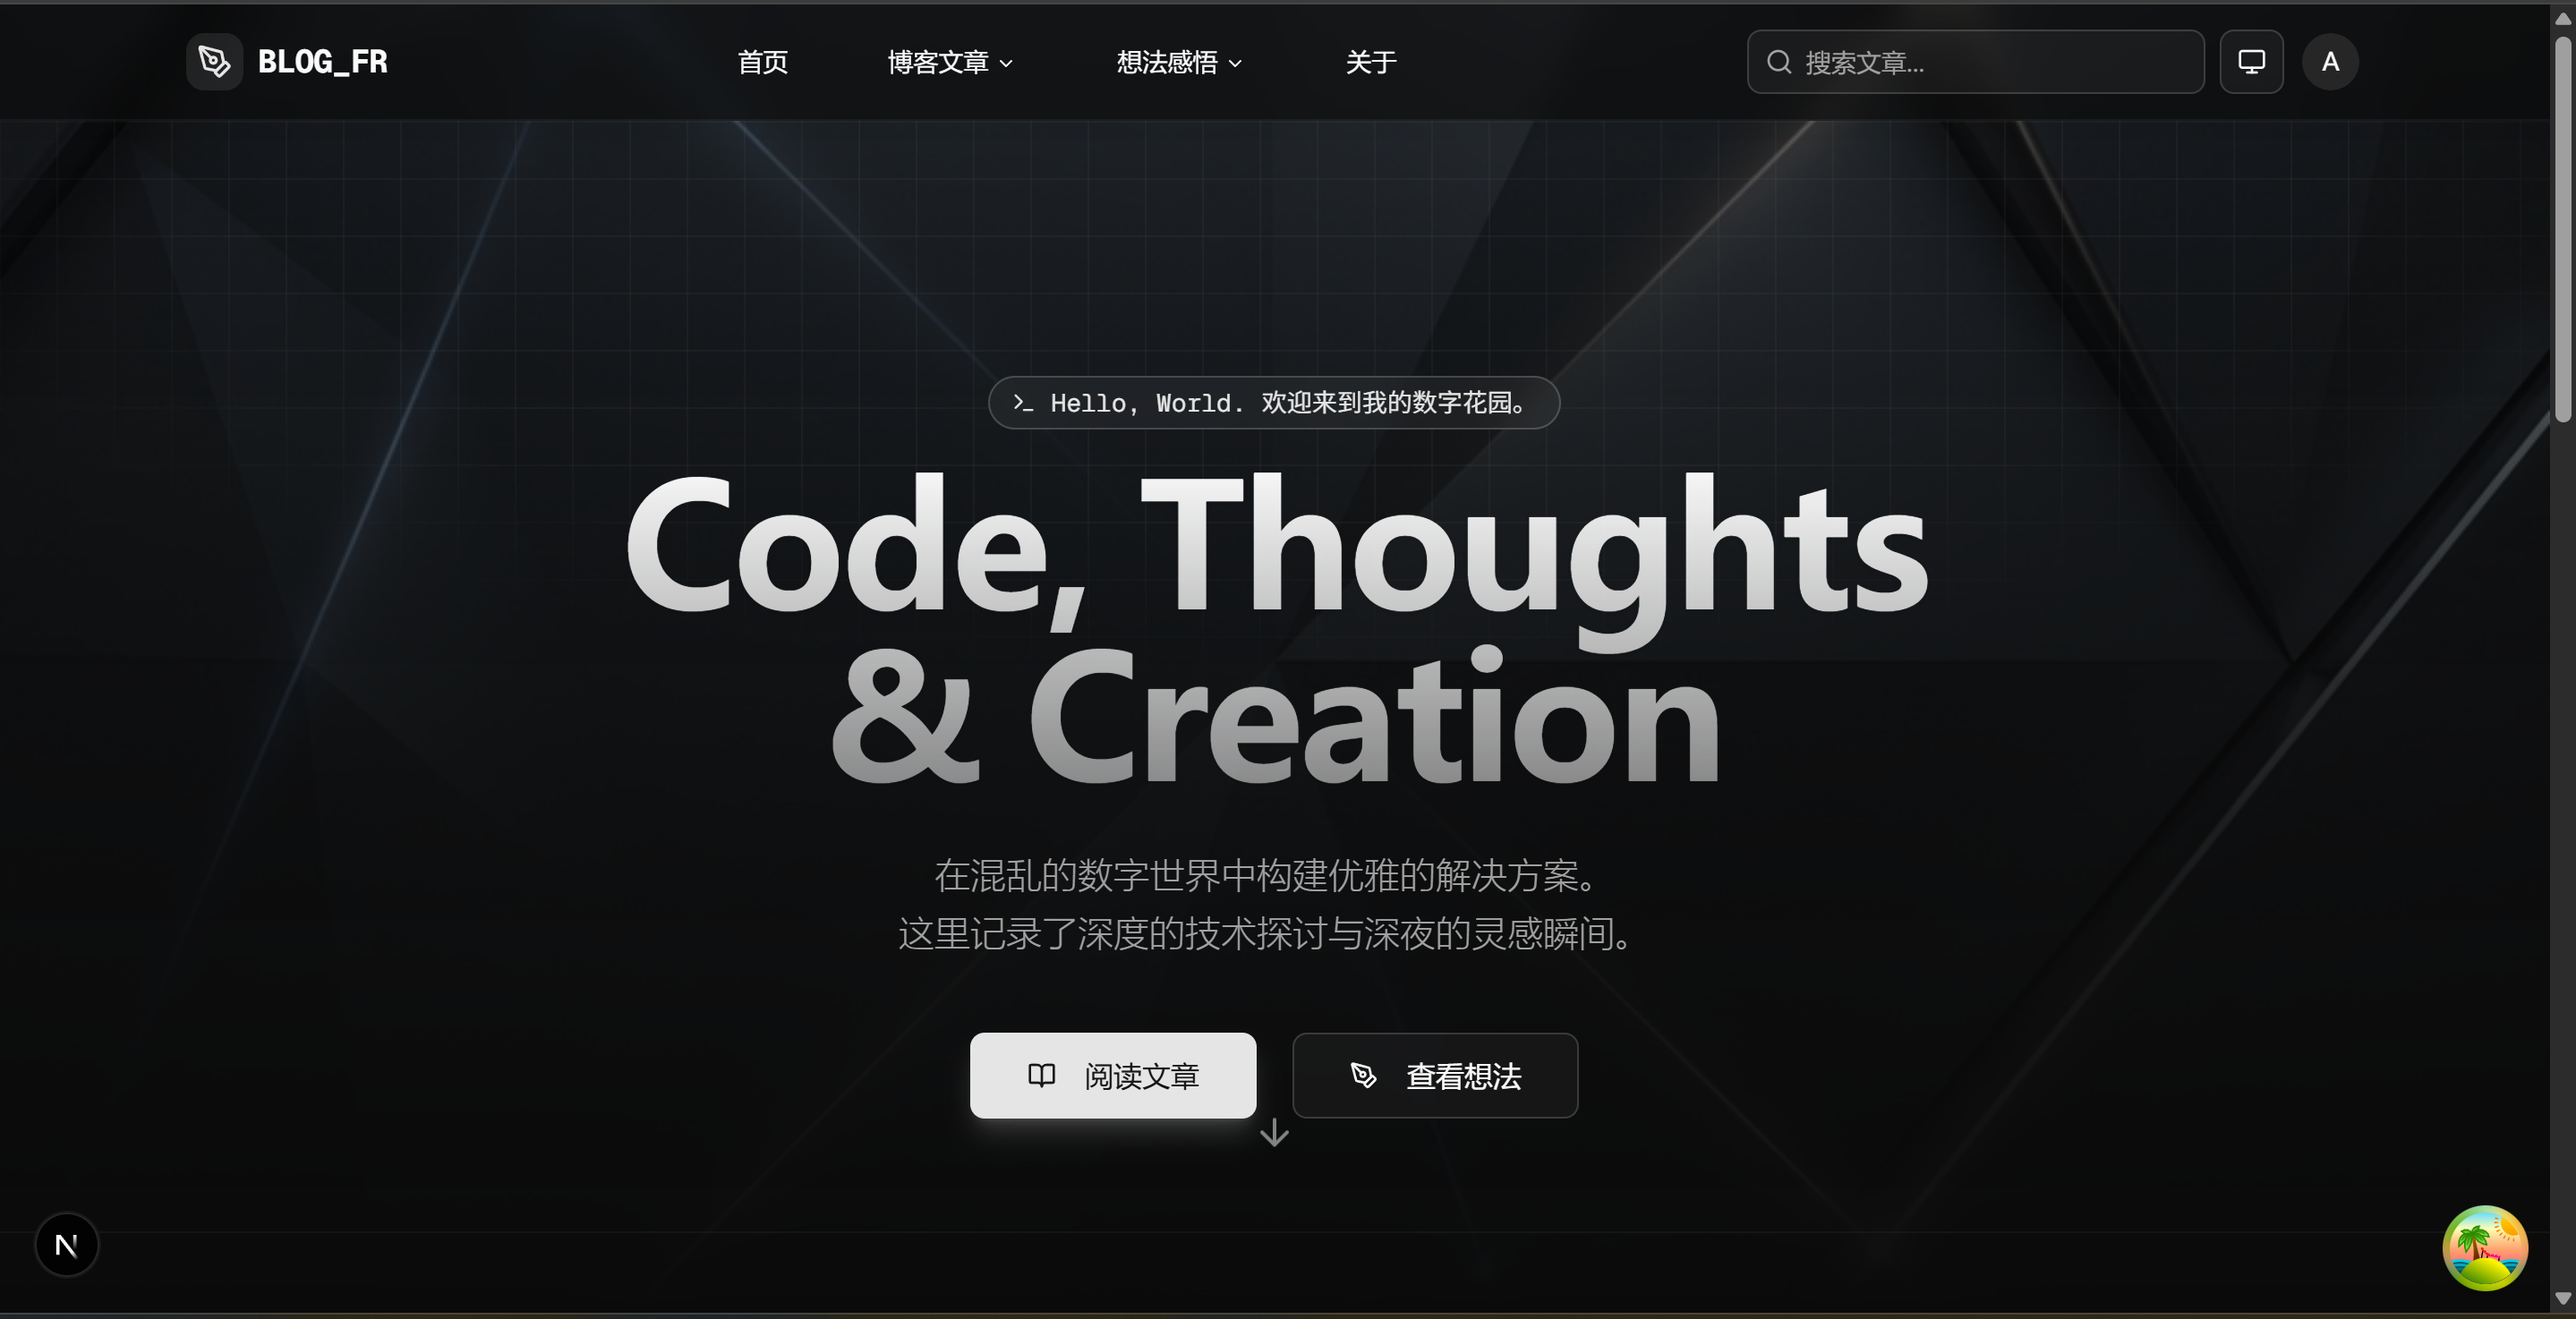
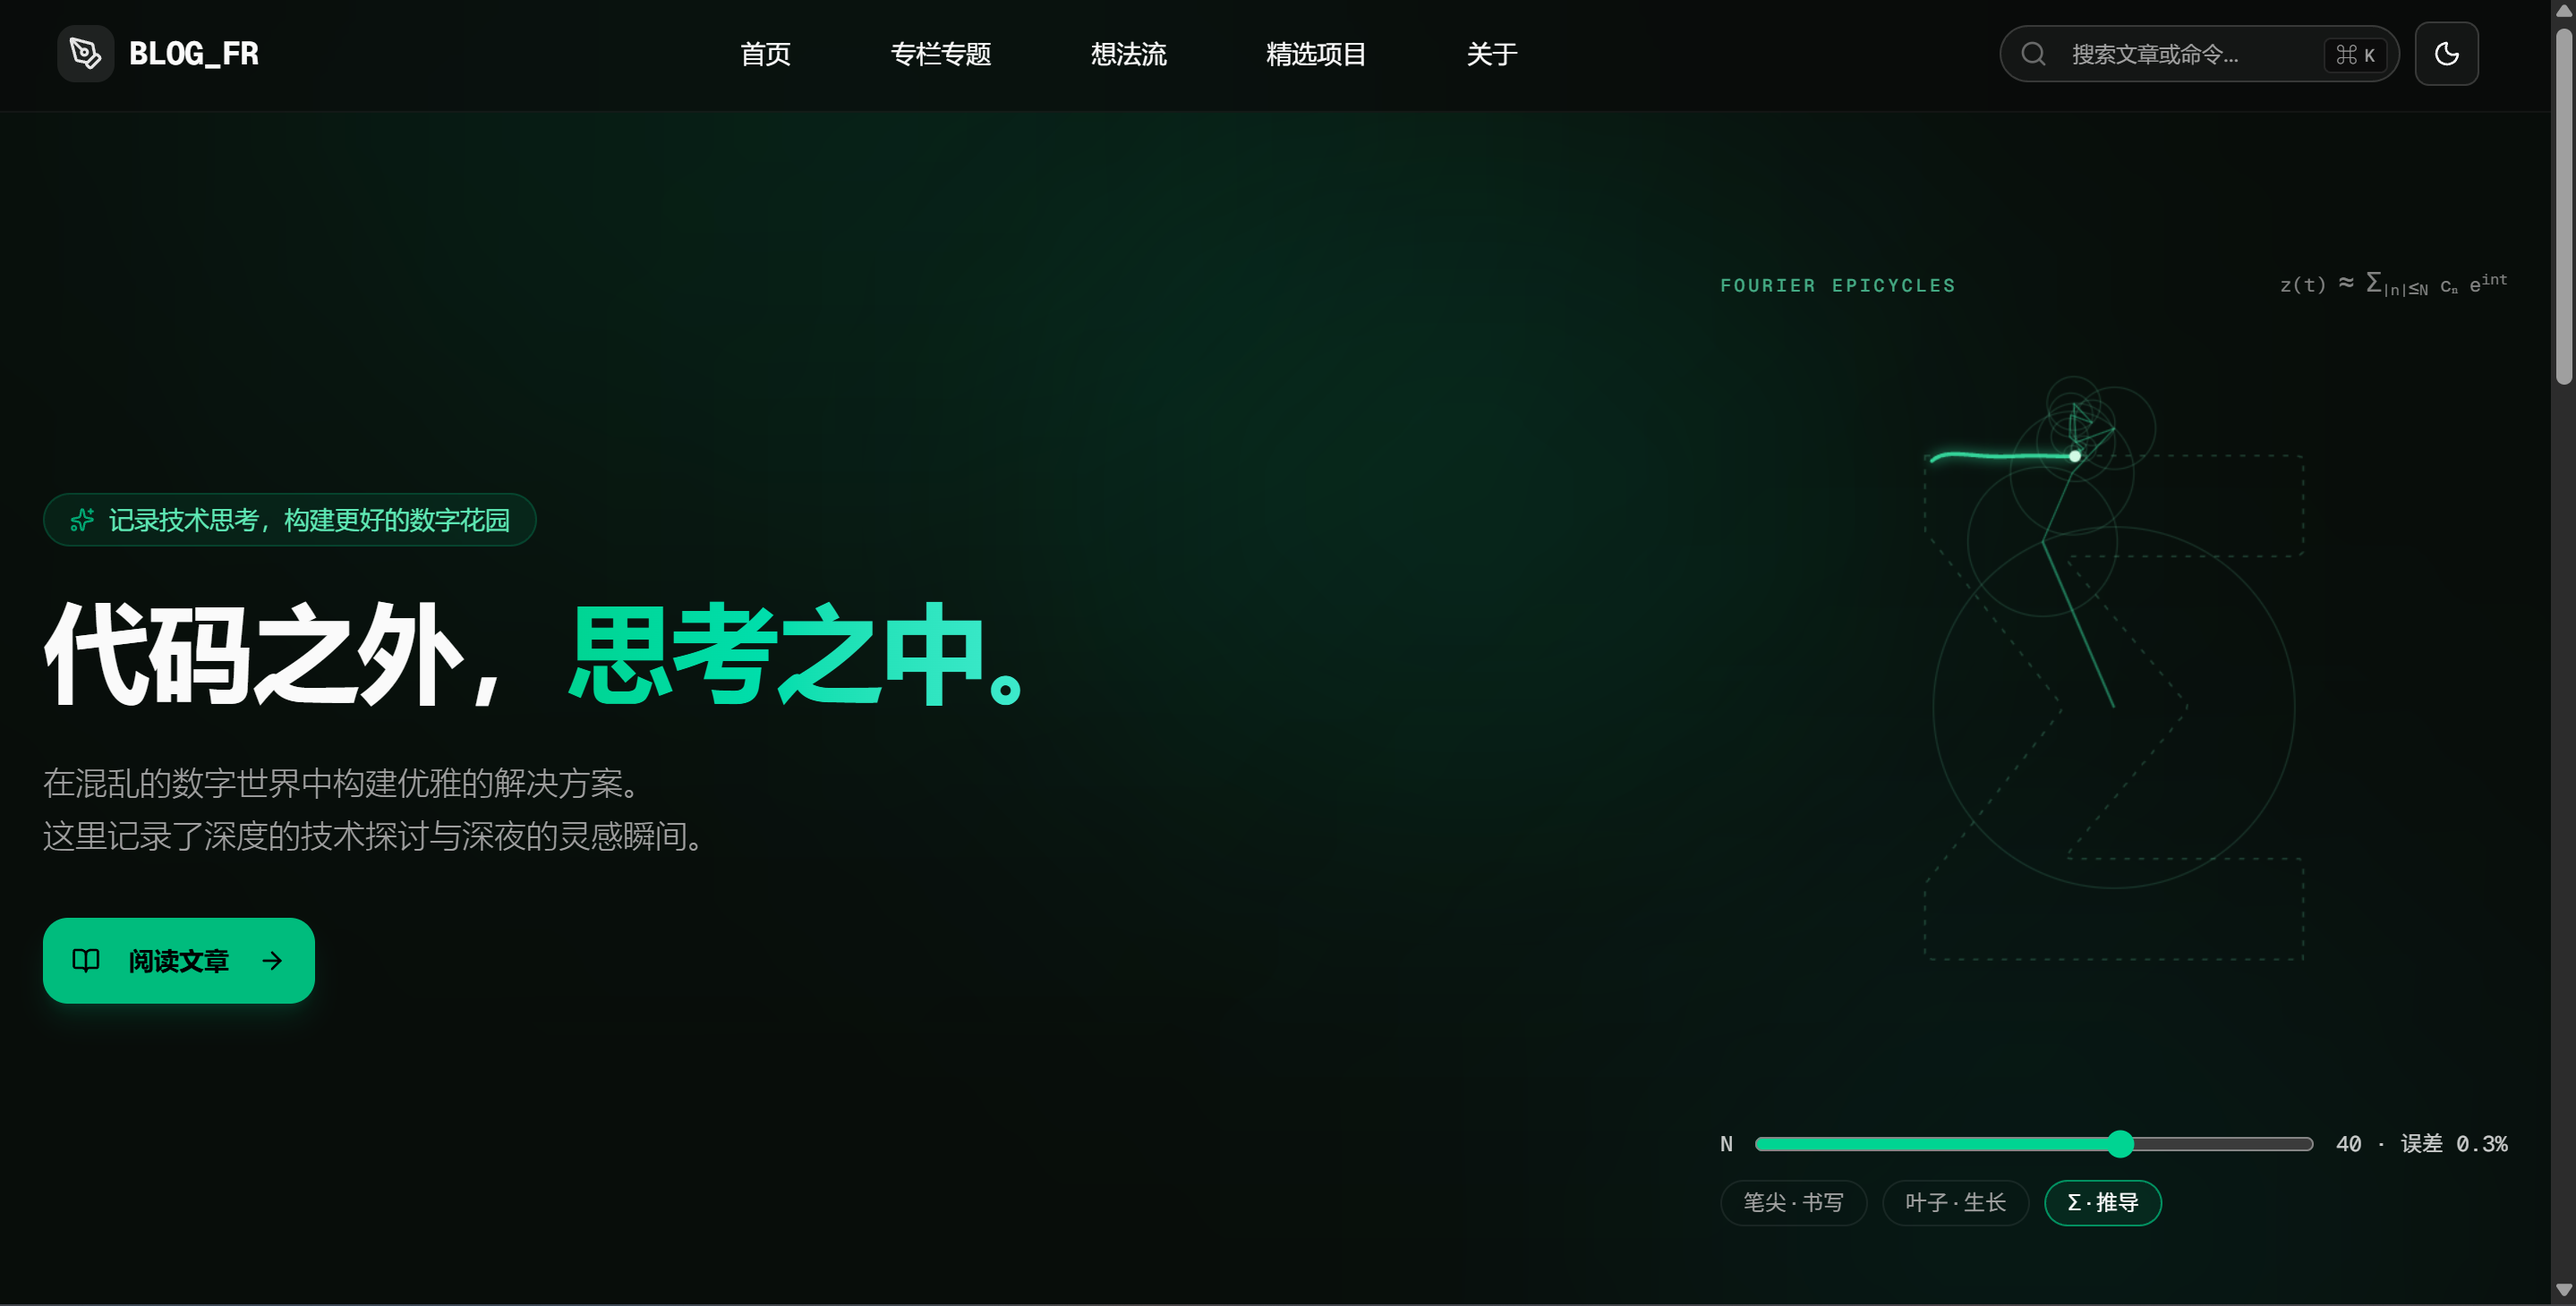
docs: 更新 README 与首页主题截图
- 修正 GitHub Secrets、生产部署方式、SDK 生成命令、渲染方式与 API 路径
- 补充访问分析、链路追踪、llms.txt、Caddy 与 CI/CD 发布流程
- 替换为新版首页的浅色/深色截图

diff --git a/README.md b/README.md
@@ -26,25 +26,28 @@
   </tr>
 </table>
 
-> 💡 基于 `next-themes` 实现，支持系统主题自动跟随，用户偏好自动保存。[查看更多功能展示 →](./SHOWCASE.md)
+> 💡 主题状态由 `next-themes` 管理，支持跟随系统与偏好保存；切换时使用 View Transitions API 做页面级水波纹过渡，不支持该 API 或开启“减少动态效果”时直接切换。首页右侧为可交互的傅里叶本轮（Fourier Epicycles）手稿。[查看更多功能展示 →](./SHOWCASE.md)
 
 ---
 
 ## ✨ 核心特性
 
 - 🎨 **现代设计**: Tailwind CSS 4 + shadcn/ui，深色/浅色主题无缝切换，响应式布局
-- 📝 **增强型 MDX**: Mermaid 图表、代码高亮 (highlight.js)、数学公式 (KaTeX)、交互式组件
+- 📝 **增强型 MDX**: Mermaid 图表、代码高亮 (@tanstack/highlight)、数学公式 (KaTeX)、交互式组件
 - ⚡ **混合渲染架构**:
-  - **SSR**: 博客文章页面，最佳 SEO 和首屏加载
+  - **ISR**: 公开页面静态生成 + 定时重验证（首页 60s、文章页 300s），内容同步后通过 revalidate webhook 主动刷新
   - **CSR**: 管理后台，流畅的 SPA 体验
   - **后端**: FastAPI + SQLModel，异步高性能
+- 🗂 **内容组织**: 文章 (articles) 与想法 (ideas) 两种内容类型，各自下设专栏；专栏页提供地形图式导航
 - 🔗 **OpenAPI 驱动**: hey-api 自动生成类型安全的前端 SDK
 - 🖼 **媒体管理**: 多规格缩略图自动生成，SVG 图标支持
-- 🔍 **SEO 友好**: 语义化 HTML、动态元数据、OpenGraph 标签
-- 🐳 **容器化部署**: Docker Compose 一键启动开发/生产环境
-- 🧪 **质量保证**: Pytest 测试框架 + 代码覆盖率
-- 🔄 **GitOps 同步**: 依赖注入容器模式，支持增量/全量同步
-- 🛡 **统一错误处理**: 标准化错误响应格式 + 全链路追踪
+- 🔍 **SEO 与可发现性**: 动态元数据、OpenGraph、sitemap、robots、RSS；为 AI 爬虫提供 `llms.txt` / `llms-full.txt` 与每篇文章的纯 Markdown 版本
+- 📊 **访问分析**: 浏览量与 PV 统计、Core Web Vitals 真实用户监控、基于 ip2region 的离线 IP 归属地查询
+- 🔭 **可观测性**: OpenTelemetry 打通 Next.js → FastAPI → SQL 全链路追踪，可选接入 Jaeger
+- 🐳 **容器化部署**: Docker Compose + Caddy（自动 HTTPS），CI 检查通过后按 commit SHA 构建镜像并发布
+- 🧪 **质量保证**: Pytest + 覆盖率、Vitest、类型检查与 Lint，均在 CI 中作为发布门禁
+- 🔄 **GitOps 同步**: 依赖注入容器模式，支持增量/全量同步，后台提交与同步共用仓库锁
+- 🛡 **统一错误处理**: 标准化错误响应格式，所有错误响应携带 `request_id`
 
 > 📸 **查看效果**: 想要直观了解这些特性？访问 [功能展示文档](./SHOWCASE.md) 查看完整的界面截图和功能演示！
 
@@ -68,8 +71,14 @@
 - **样式**: [Tailwind CSS 4](https://tailwindcss.com/), [Shadcn UI](https://ui.shadcn.com/)
 - **状态管理**: [TanStack Query v5](https://tanstack.com/query)
 - **数据获取**: [hey-api SDK](https://www.heypi.com/) (基于 OpenAPI 自动生成)
-- **主题系统**: [next-themes](https://github.com/pacocoursey/next-themes) - 支持深色/浅色模式，自动跟随系统主题
-- **内容渲染**: MDX + Mermaid + KaTeX + highlight.js
+- **主题系统**: [next-themes](https://github.com/pacocoursey/next-themes) + View Transitions API
+- **内容渲染**: MDX + Mermaid + KaTeX + @tanstack/highlight
+
+### 基础设施 (Infrastructure)
+
+- **反向代理**: [Caddy](https://caddyserver.com/)（自动申请 HTTPS 证书）
+- **可观测性**: [OpenTelemetry](https://opentelemetry.io/) + [Jaeger](https://www.jaegertracing.io/)
+- **CI/CD**: GitHub Actions + Docker Buildx（GHA 缓存）+ 阿里云 ACR 镜像仓库
 
 ---
 
@@ -99,15 +108,15 @@ cp frontend/.env.example frontend/.env
 # 开发环境（支持热重载）
 docker compose -f docker-compose.dev.yml up
 
-# 生产环境
-docker compose up -d
 ```
 
 访问：
 
-- 前端: `http://localhost:3000` (开发) 或 `http://localhost:80` (生产)
+- 前端: `http://localhost:3000`
 - API 文档: `http://localhost:8000/scalar`
 - 后端健康检查: `http://localhost:8000/`
+
+> 生产环境的 `docker-compose.yml` 引用 CI 构建好的镜像，必须指定 `IMAGE_TAG`，不适合直接在本地启动。本地模拟生产请使用 `./scripts/test-prod-local.sh`（读取 `.env.prod.local` 与 `docker-compose.prod.local.yml`）。
 
 ---
 
@@ -120,7 +129,9 @@ cd frontend
 pnpm install
 pnpm dev        # 启动开发服务器 (http://localhost:3000)
 pnpm build      # 构建生产版本
-./scripts/generate-api.sh  # 从 OpenAPI schema 生成类型安全的 SDK
+pnpm test       # 运行测试
+pnpm type-check # 类型检查
+pnpm lint       # 代码检查
 ```
 
 ### 后端开发
@@ -141,6 +152,10 @@ uv run pytest      # 运行测试
 | `./scripts/generate-api.sh`   | **全自动生成 API SDK** | 后端接口变更后，一键更新前端 TypeScript 类型定义 |
 | `./scripts/db-migrate.sh`     | 数据库迁移辅助         | 创建新表或修改模型后使用                         |
 | `./scripts/docker-rebuild.sh` | 重建所有 Docker 容器   | 修改了依赖或 Dockerfile 后使用                   |
+| `./scripts/docker-rebuild-frontend.sh` | 仅重建前端容器 | 前端 `package.json` 变更后使用 |
+| `./scripts/sync-posts.sh`     | 同步 `content/` 文章   | 本地将 Git 内容目录同步到数据库                  |
+| `./scripts/test-prod-local.sh` | 本地模拟生产部署      | 发布前在本机验证生产配置                         |
+| `./scripts/deploy-release.sh` | 服务器端发布脚本       | 由 CI 调用：拉取镜像 → 迁移 → 启动 → 健康检查   |
 
 ### API SDK 生成
 
@@ -148,7 +163,7 @@ uv run pytest      # 运行测试
 
 1. 后端自动生成 OpenAPI schema: `http://localhost:8000/openapi.json`
 2. 前端使用 hey-api/openapi-ts 自动生成 TypeScript SDK
-3. 修改后端 API 后运行 `npm run api:generate` 更新前端类型
+3. 修改后端 API 后在根目录运行 `./scripts/generate-api.sh`（或在 `frontend/` 下执行 `pnpm api:generate`）更新前端类型
 
 ---
 
@@ -160,8 +175,10 @@ blog_fr/
 │   ├── app/
 │   │   ├── core/                # 核心配置和工具
 │   │   ├── users/               # 用户认证和授权
-│   │   ├── posts/               # 文章管理
+│   │   ├── posts/               # 文章、专栏、标签
 │   │   ├── media/               # 媒体文件管理
+│   │   ├── git_ops/             # GitOps 内容同步
+│   │   ├── analytics/           # 访问分析与 Web Vitals
 │   │   └── middleware/          # 自定义中间件
 │   ├── tests/                   # Pytest 测试
 │   ├── alembic/                 # 数据库迁移
@@ -174,9 +191,13 @@ blog_fr/
 │   │   └── config/              # 配置文件
 │   ├── public/                  # 静态资源
 │   └── package.json             # Node.js 项目配置
+├── content/                     # Git 管理的文章内容（articles/、ideas/）
+├── caddy/                       # Caddy 反向代理镜像与配置
 ├── scripts/                     # 自动化脚本
+├── .github/workflows/           # CI 与发布流水线
 ├── docker-compose.yml           # 生产环境配置
 ├── docker-compose.dev.yml       # 开发环境配置
+├── docker-compose.observability.yml  # 可选：Jaeger 链路追踪
 ├── ARCHITECTURE.md              # 架构详细文档
 └── README.md                    # 本文件
 ```
@@ -185,7 +206,7 @@ blog_fr/
 
 - **混合渲染**: Next.js App Router 支持 SSR 和 CSR，根据页面特性自动选择最佳渲染策略
 - **类型安全**: OpenAPI schema 自动生成 TypeScript SDK，确保前后端接口类型一致
-- **模块化设计**: 后端按功能模块划分（users、posts、media、git_ops），前端按组件和功能组织
+- **模块化设计**: 后端按功能模块划分（users、posts、media、git_ops、analytics），前端按组件和功能组织
 - **开发体验**: 支持 Hot Reload、TypeScript 检查、自动格式化
 
 ### GitOps 内容同步模块
@@ -242,15 +263,24 @@ GitOpsContainer (容器)
 ```bash
 cd backend
 # 运行所有测试
-pytest
+uv run pytest
 
 # 运行测试并生成覆盖率报告
-pytest --cov=app --cov-report=html
+uv run pytest --cov=app --cov-report=html
 
 # 运行特定模块的测试
-pytest tests/api/posts/
-pytest tests/api/users/
-pytest tests/api/media/
+uv run pytest tests/api/posts/
+uv run pytest tests/api/users/
+uv run pytest tests/api/media/
+```
+
+### 前端测试
+
+```bash
+cd frontend
+pnpm test
+pnpm type-check
+pnpm lint
 ```
 
 ### 数据库迁移
@@ -258,31 +288,38 @@ pytest tests/api/media/
 ```bash
 cd backend
 # 创建新的迁移
-alembic revision --autogenerate -m "描述"
+uv run alembic revision --autogenerate -m "描述"
 
 # 应用迁移
-alembic upgrade head
+uv run alembic upgrade head
 
 # 回滚迁移
-alembic downgrade -1
+uv run alembic downgrade -1
 ```
 
 ---
 
 ## 🚀 部署
 
-### 生产环境部署
+### 发布流程
+
+推送到 `main` 后由 [`deploy.yml`](./.github/workflows/deploy.yml) 自动完成，同一时间只运行一个发布：
+
+1. **检查门禁**: 并行运行后端 CI（pytest + 覆盖率）与前端 CI（type-check、lint、测试、构建），全部通过才继续
+2. **构建镜像**: 使用 Buildx + GitHub Actions 缓存构建 backend / frontend / caddy 镜像，以 commit SHA 为标签推送到阿里云 ACR
+3. **服务器发布**: 上传本次的 `docker-compose.yml` 与 `scripts/deploy-release.sh`，由脚本依次执行：
+   - 只拉取本次发布的应用镜像
+   - 用新镜像执行 `alembic upgrade head`
+   - 启动全部服务并等待健康检查通过
+   - 保留上一个版本号，便于手动回滚
+
+### 可选：链路追踪
 
 ```bash
-# 构建并启动所有服务
-docker compose up -d
-
-# 查看日志
-docker compose logs -f
-
-# 停止服务
-docker compose down
+docker compose -f docker-compose.yml -f docker-compose.observability.yml up -d
 ```
+
+Jaeger UI 仅绑定在服务器本机 `127.0.0.1:16686`，需通过 SSH 隧道访问。
 
 ### 环境变量配置
 
@@ -298,9 +335,10 @@ docker compose down
    ```
 
 2. **GitHub Secrets**: 配置 CI/CD 所需的密钥
-   - `ALIYUN_AK_ID` / `ALIYUN_AK_SECRET` - 阿里云访问密钥
+   - `ACR_USERNAME` / `ACR_PASSWORD` - 阿里云容器镜像服务 (ACR) 登录凭据
    - `ECS_IP` / `ECS_USER` / `ECS_PASSWORD` - 服务器连接信息
-   - `NEXT_PUBLIC_API_URL` - 前端 API 地址
+   - `NEXT_PUBLIC_API_URL` - 前端 API 地址（构建时注入）
+   - `CODECOV_TOKEN` - 上传后端覆盖率报告
 
 主要环境变量（参考 `.env.production.template`）：
 
@@ -316,9 +354,14 @@ docker compose down
 后端提供的主要 API 接口：
 
 - **用户认证**: `/api/v1/users/register`, `/api/v1/users/login`
-- **文章管理**: `/api/v1/posts/`, `/api/v1/posts/article/{slug}`
-- **媒体文件**: `/api/v1/media/upload`, `/api/v1/media/files/`
+- **文章管理**: `/api/v1/posts/{post_type}`, `/api/v1/posts/{post_type}/slug/{slug}`（`post_type` 为 `articles` 或 `ideas`）
+- **专栏**: `/api/v1/posts/{post_type}/categories`
+- **媒体文件**: `/api/v1/media/upload`, `/api/v1/media/`
+- **内容同步**: `/api/v1/ops/git/*`
+- **访问分析**: `/api/v1/analytics/*`
 - **API 文档**: `/scalar` (交互式 API 文档)
+
+前端额外提供的公开路由：`/rss.xml`、`/sitemap.xml`、`/llms.txt`、`/llms-full.txt`、`/posts/{postType}/{slug}/raw`（文章 Markdown 原文）、`/api/health`。
 
 ---
 
